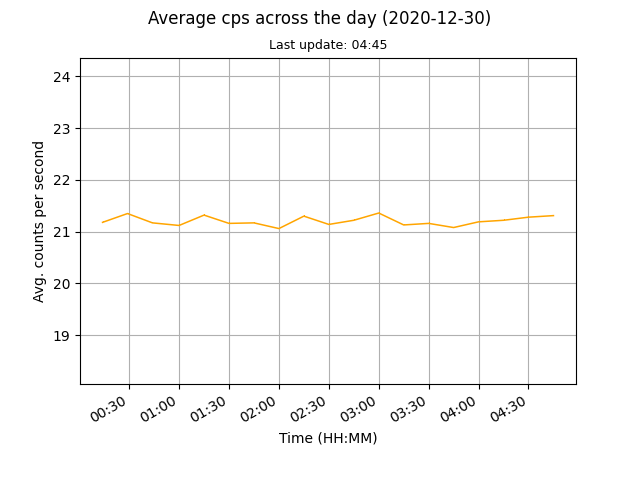
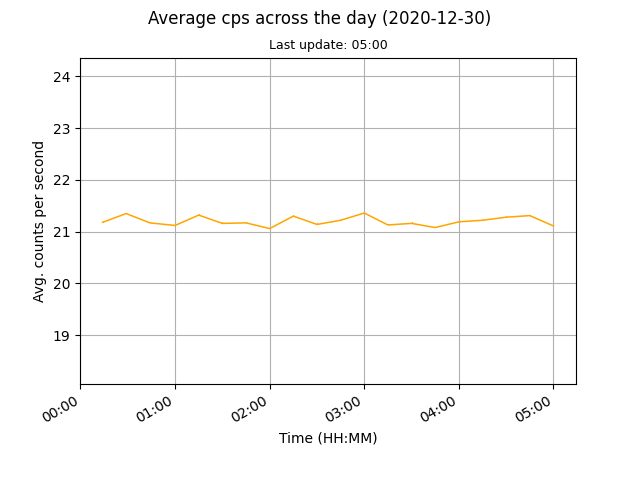
auto data update

Changed region(s): [[0.0625, 0.8125, 0.875, 0.875], [0.1875, 0.4375, 0.875, 0.5], [0.5625, 0.0625, 0.5938, 0.125]]

diff --git a/docs/index.html b/docs/index.html
@@ -45,8 +45,8 @@
 	
 	<br>
 	
-	<p>Current counts per second (cps): 21.31</p>
-	<p>Last update: 2020-12-30, 04:45</p>
+	<p>Current counts per second (cps): 21.11</p>
+	<p>Last update: 2020-12-30, 05:00</p>
 
 	<p><a href="images/monthly.png"><img src="images/monthly.png" alt="Mothly avg cps data"></a><a href="images/daily.png"><img src="images/daily.png" alt="Daily avg cps data"></a></p>
 	
